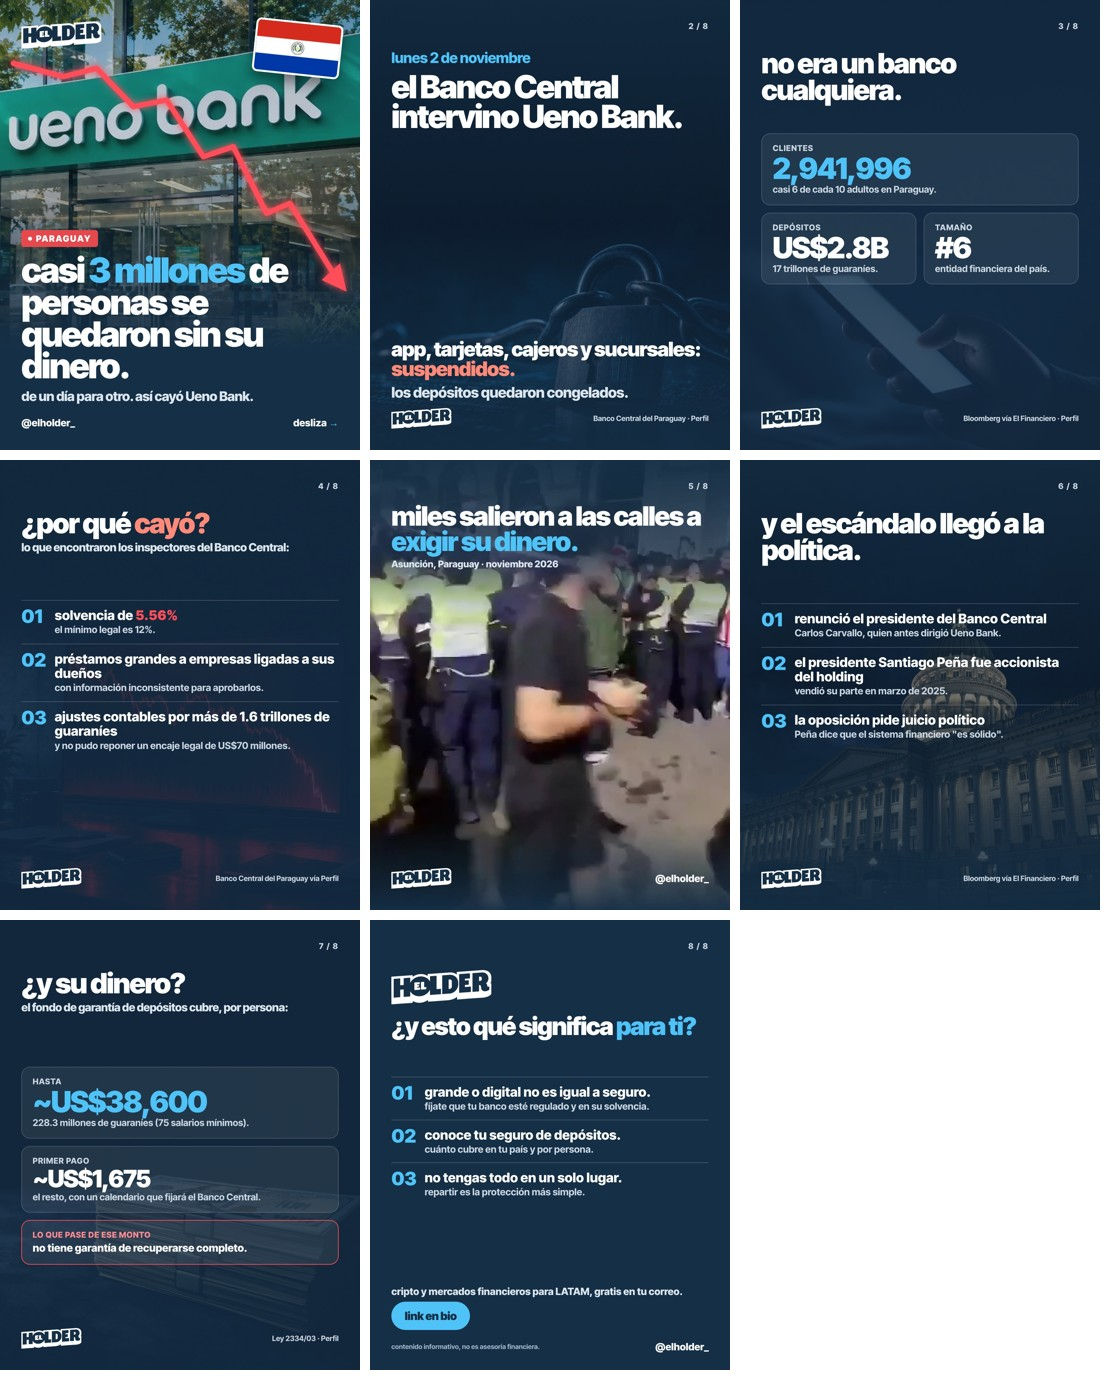
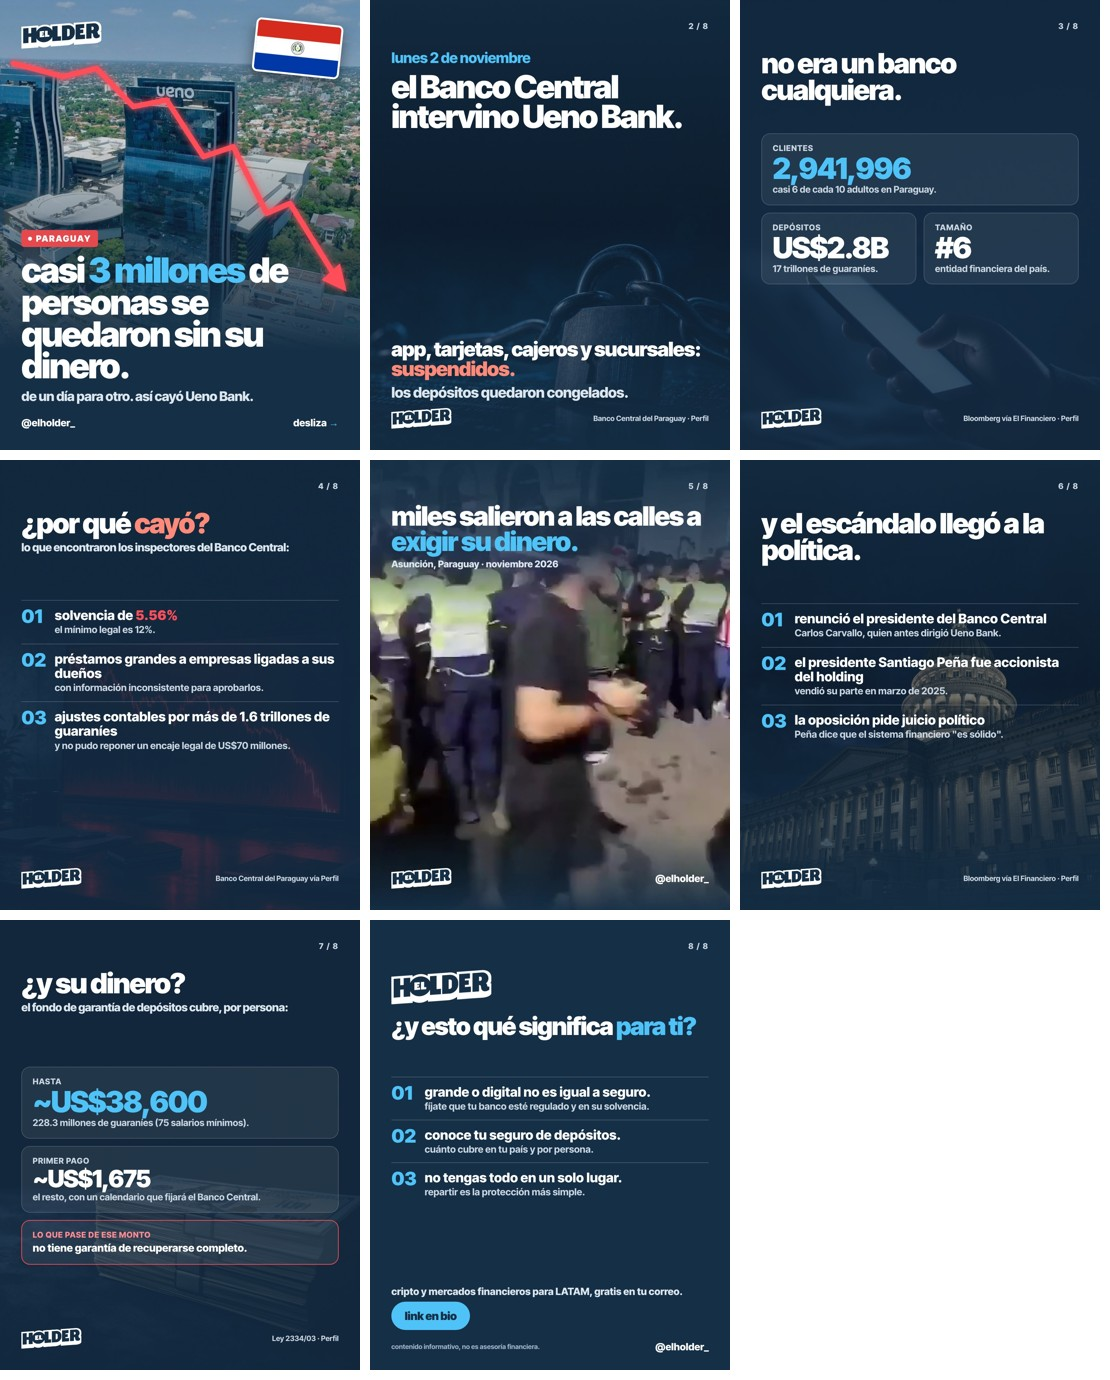
Ueno Bank: portada con foto de la torre
Claude-Session: https://claude.ai/code/session_011HtJt2a4sBpoKNENnst7wy

Changed region(s): [[0.0, 0.0, 0.3369, 0.2493]]

diff --git a/carruseles/2026-11-05-ueno-bank/src/slide-01.html b/carruseles/2026-11-05-ueno-bank/src/slide-01.html
@@ -12,7 +12,7 @@
 </style></head><body>
 <!-- PORTADA · Koemmandment: números específicos + advertencia -->
 <div class="slide">
-  <div class="bg" style="background-image:url(../fondos/ueno-banco.jpg);background-position:76% center;filter:saturate(.85)"></div>
+  <div class="bg" style="background-image:url(../fondos/ueno-torre.jpg);background-size:auto 1050px;background-position:center top;background-repeat:no-repeat;background-color:#152F46"></div>
   <div class="capa" style="background:linear-gradient(180deg,rgba(21,47,70,.35) 0%,rgba(21,47,70,.15) 30%,rgba(21,47,70,.6) 55%,#152F46 78%)"></div>
   <svg viewBox="0 0 1080 1350" style="position:absolute;inset:0" fill="none">
     <defs><filter id="gl" x="-20%" y="-20%" width="140%" height="140%"><feGaussianBlur stdDeviation="10" result="b"/><feMerge><feMergeNode in="b"/><feMergeNode in="SourceGraphic"/></feMerge></filter></defs>
